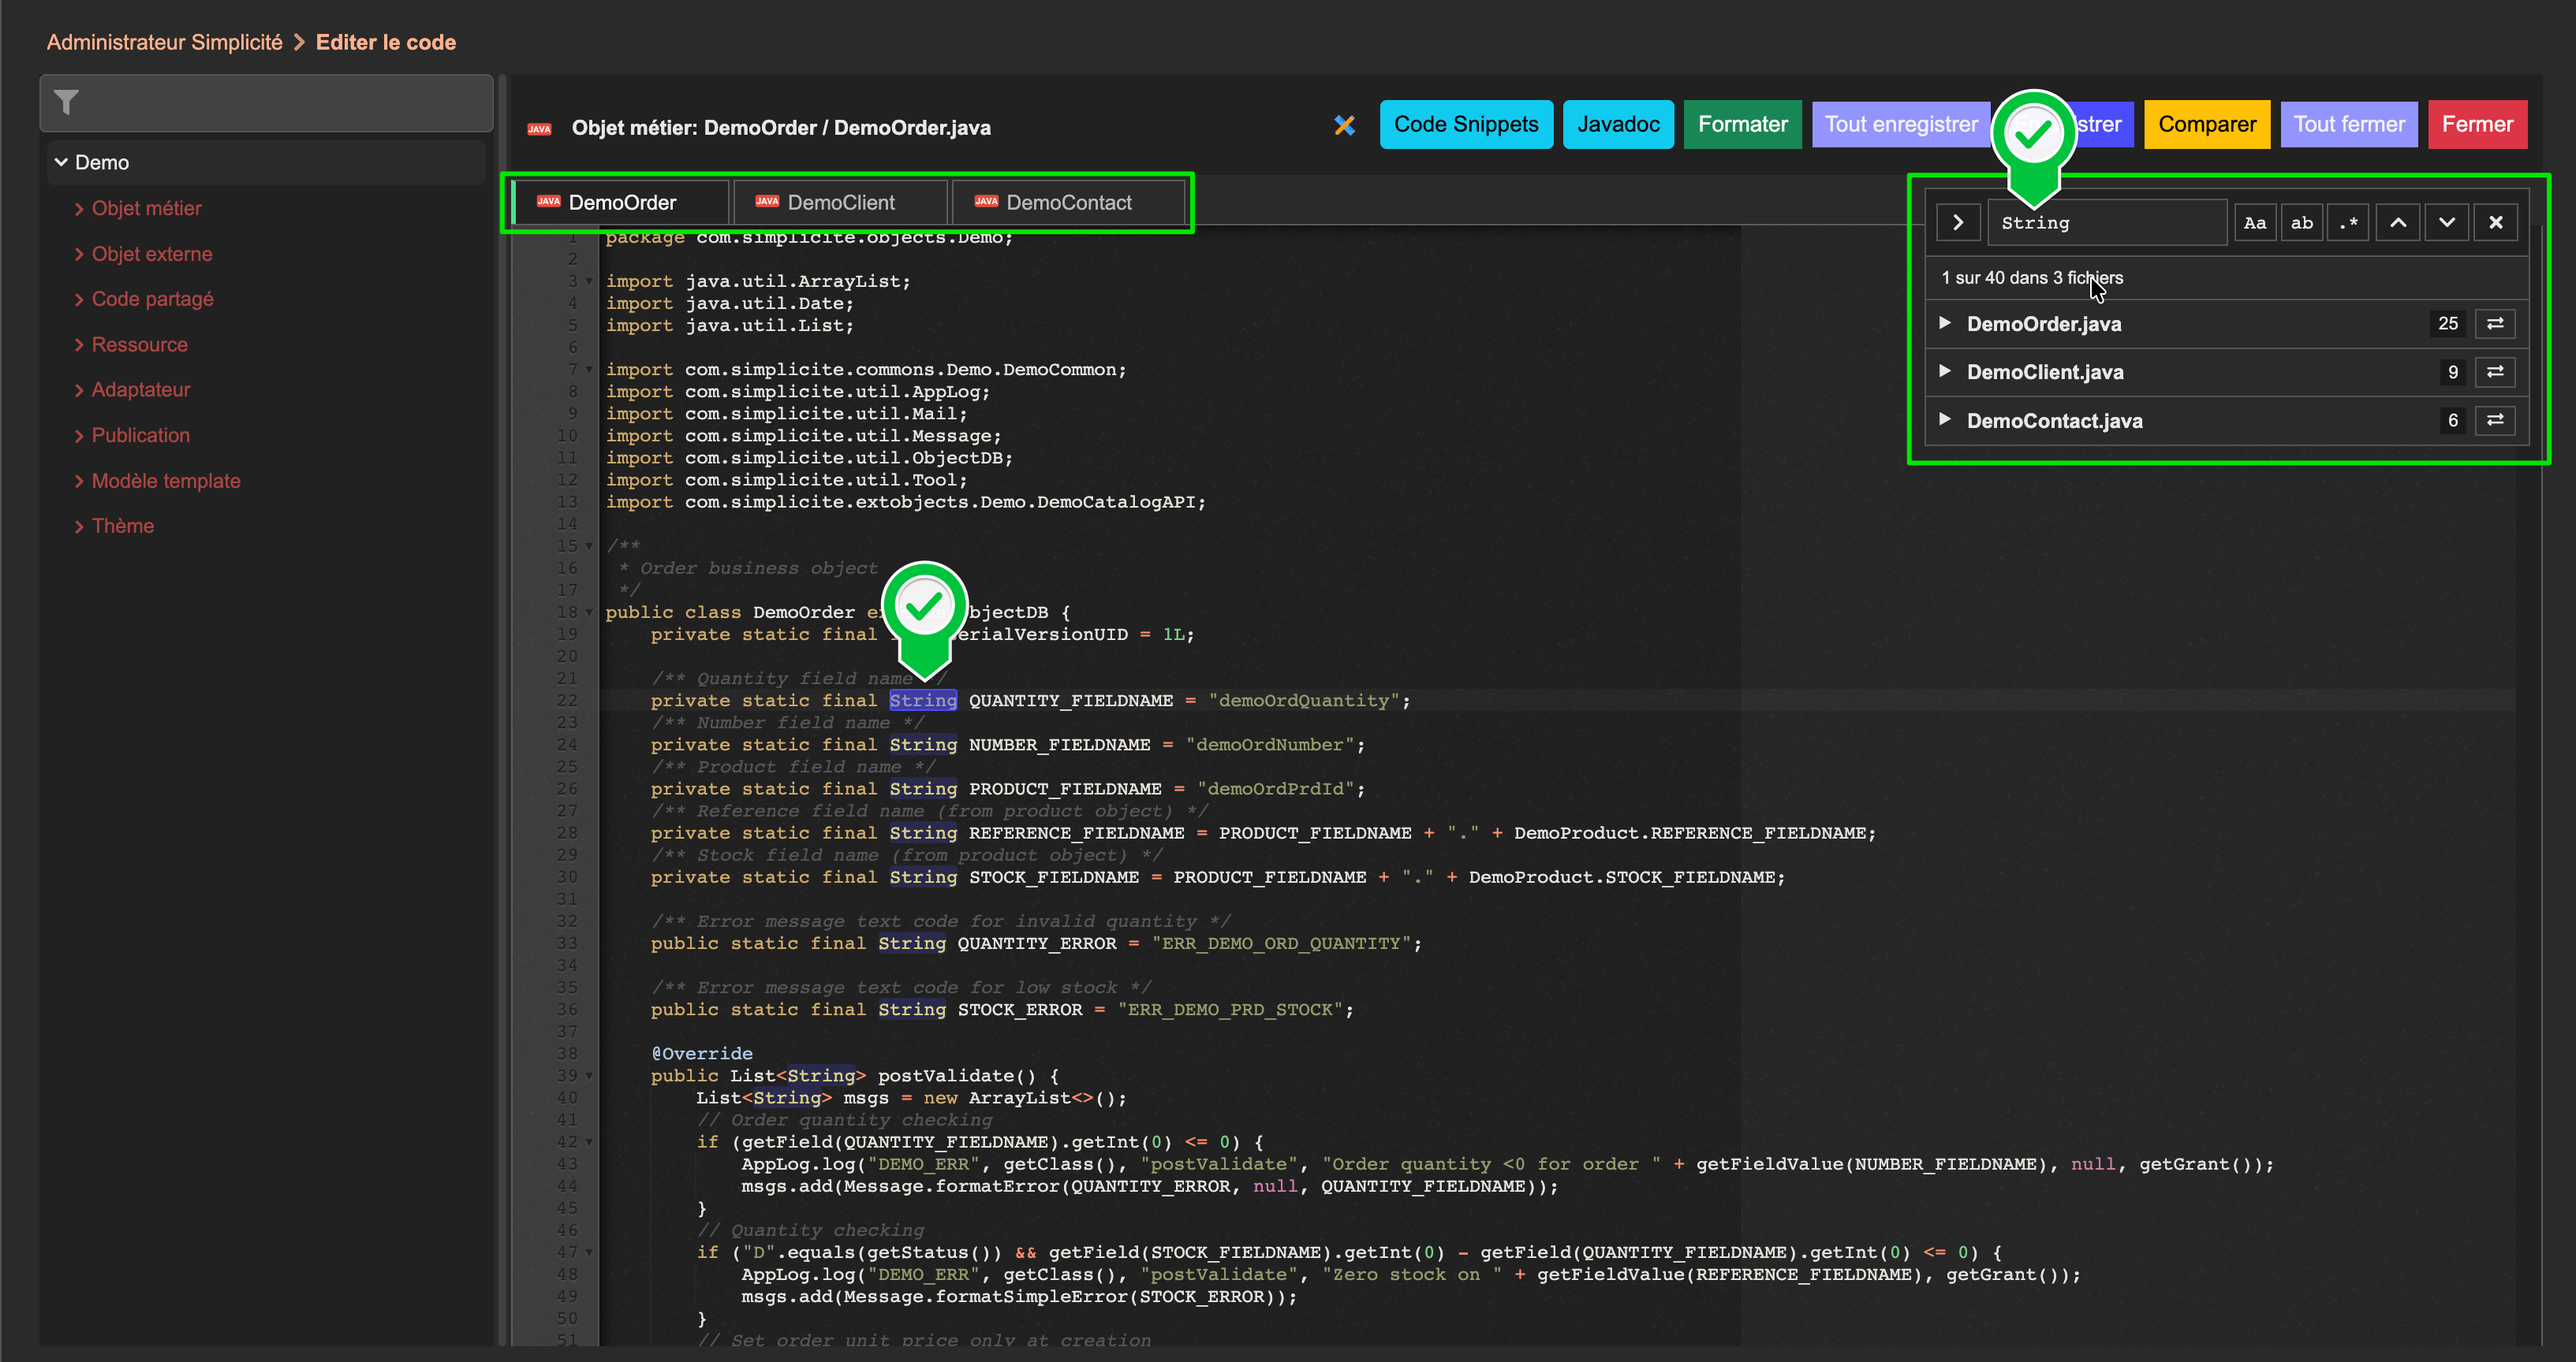
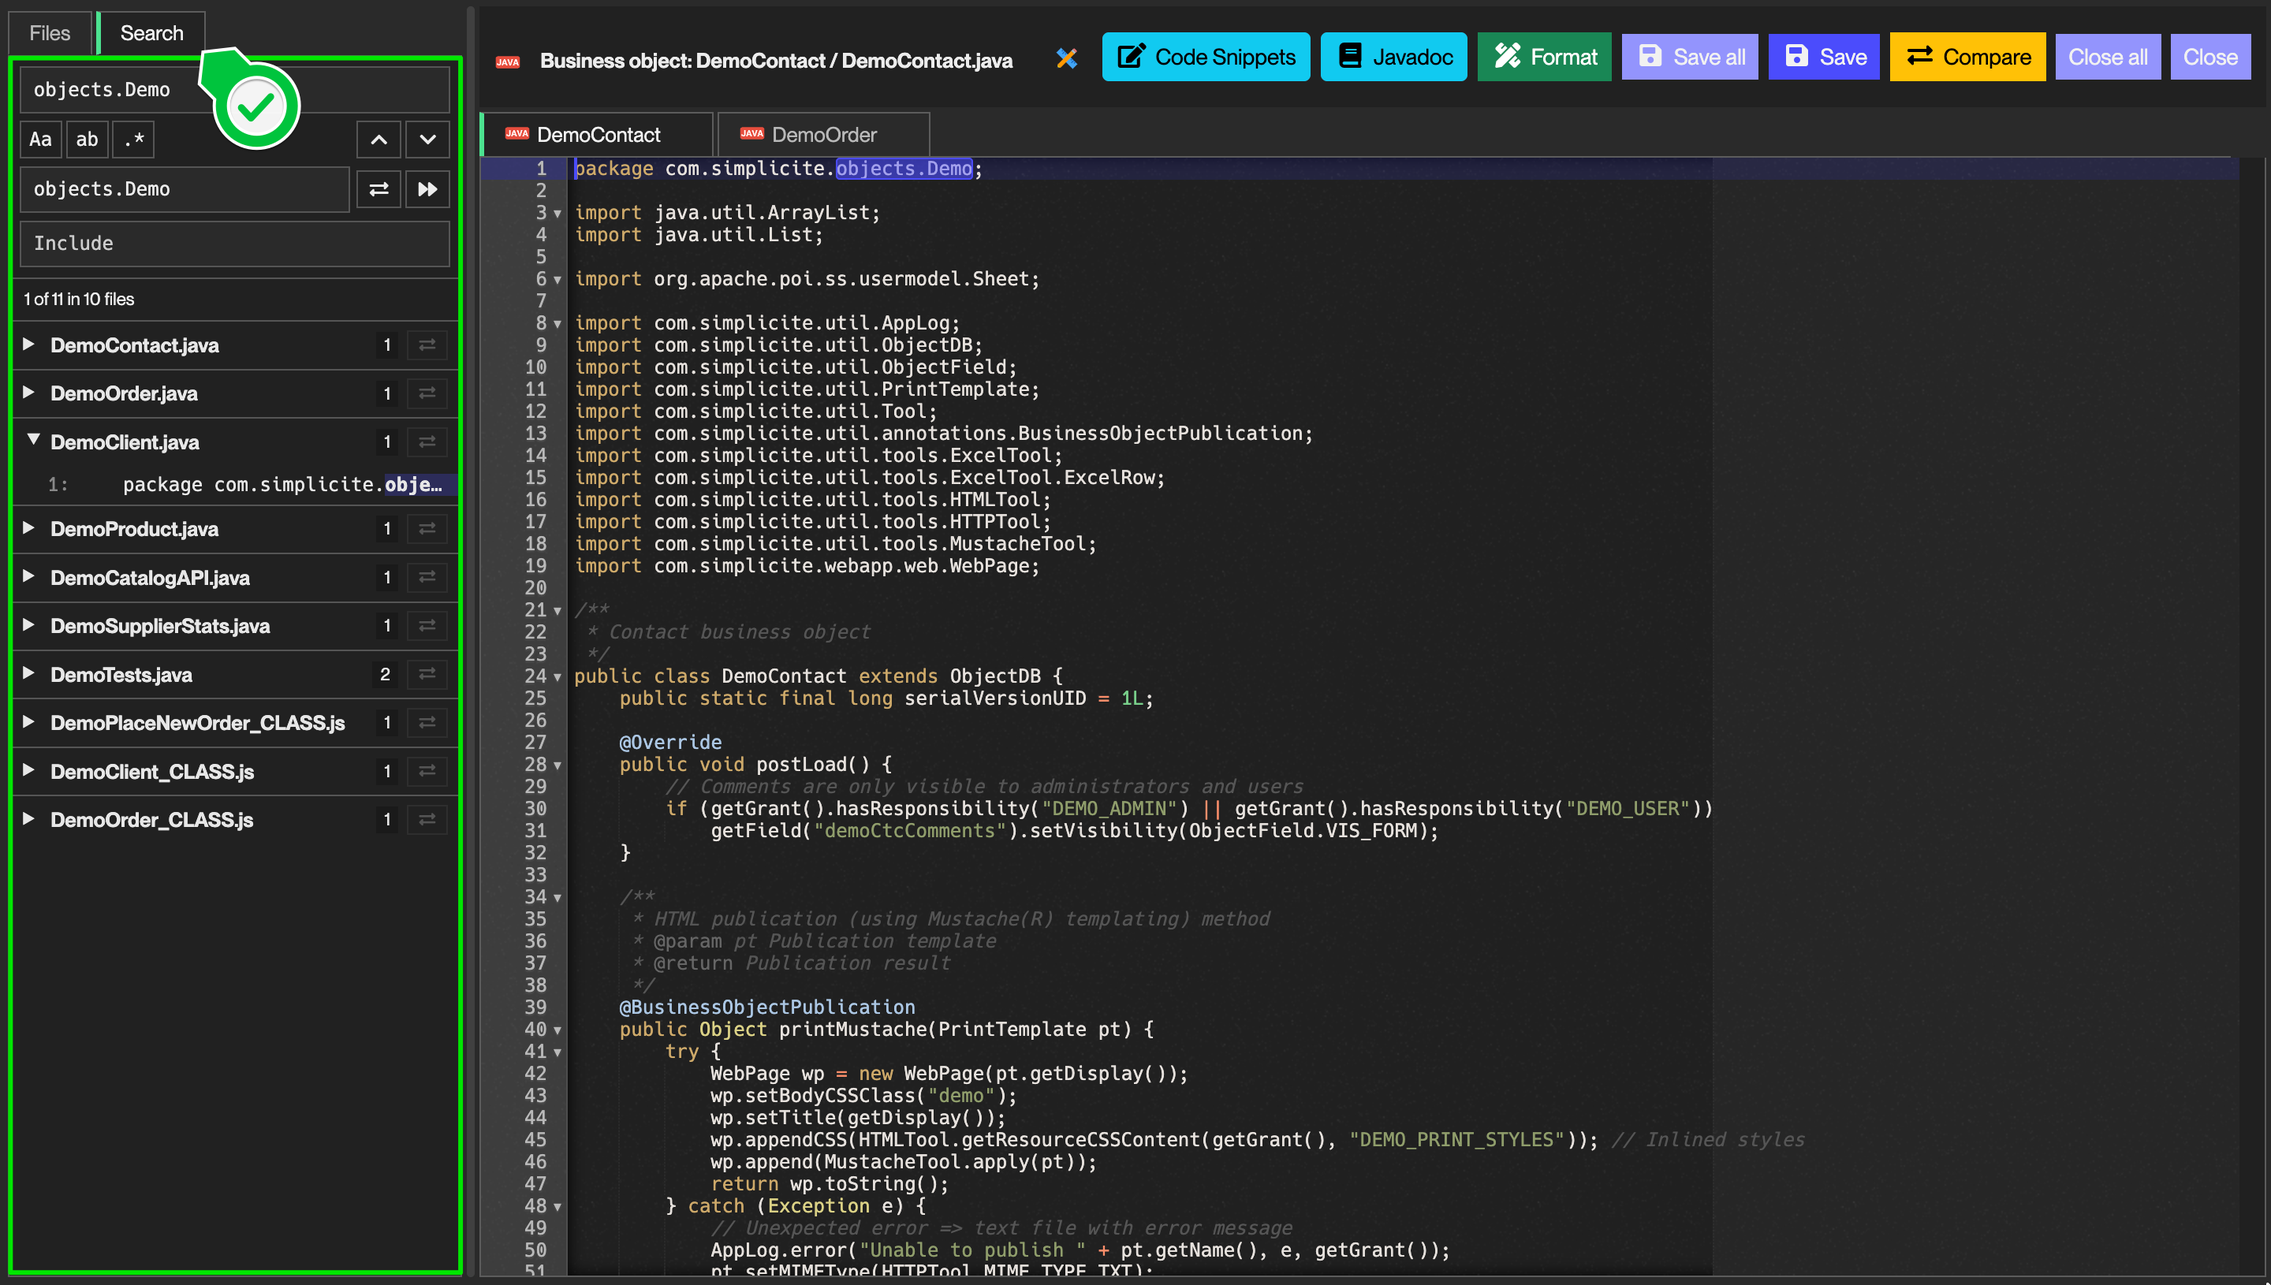
multisearch feature upd

diff --git a/docs/docs/codeeditor.md b/docs/docs/codeeditor.md
@@ -132,3 +132,19 @@ A colored indicator in the editor header displays the current status of the Java
 | `red`    | Error          |
 | `blue`   | Processing     |
 | `green`  | Ready/Done     |
+
+### Multiple tab search
+
+Using the shortcut `Shift-Ctrl-F` or `Shift-Cmd-F`, or navigating to the **Search** tab on the editor's left panel,
+you can access the following search interface :
+
+![Multisearch UI](img/codeeditor/multisearch-ui.png)
+
+A. tabbed access to the search dialog
+B. main input (searched value)
+C. match-case / whole-word / regexp / previous-match / next-match
+D. input for replace value + applying buttons (replace-one & replace-all)
+E. include file input, using only simple regexp with `*` and/or `?` chars
+F. list of files with 1+ occurence of search. Dropdown when clicking the row.
+G. clicking the occurence opens the file in editor and redirects cursor to the line.
+H. replace-all feature for the targetted file, with occurences count.
